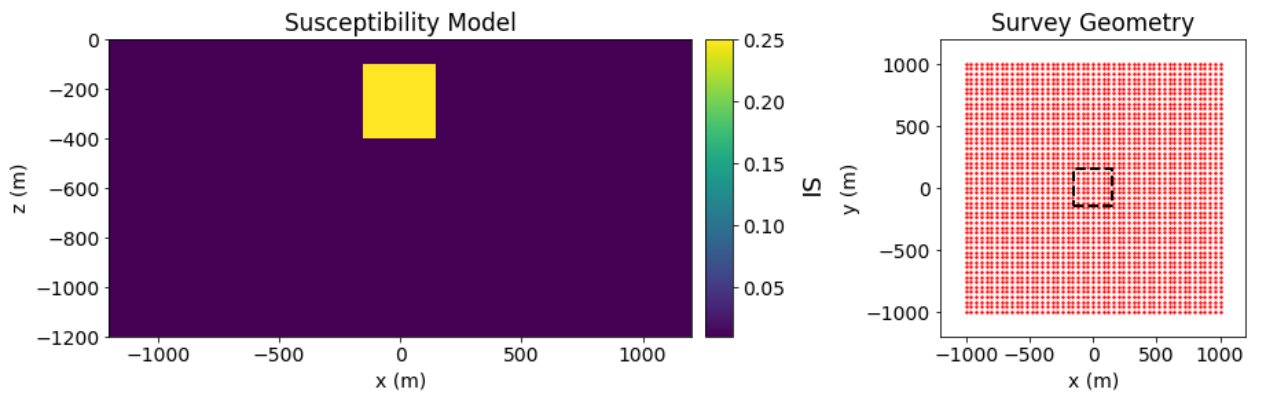
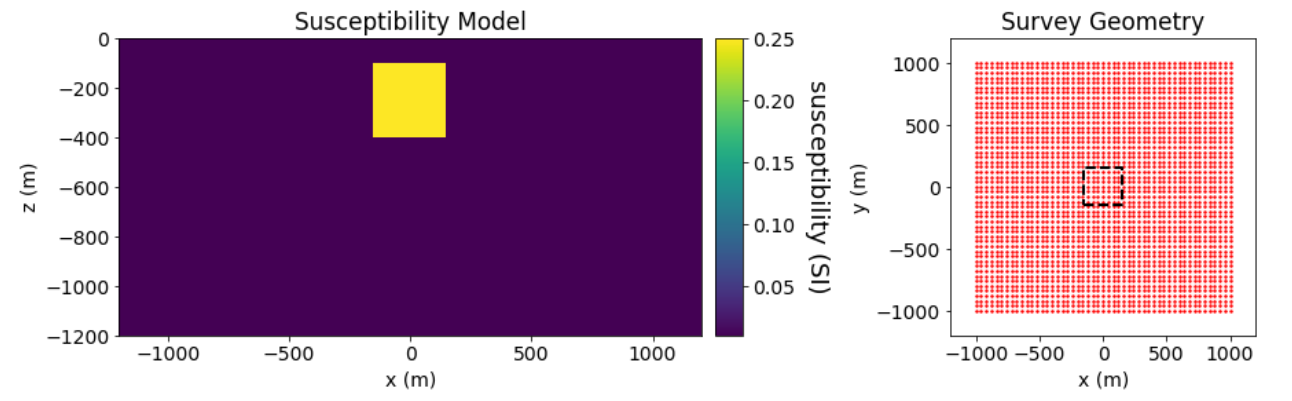
lindsey suggestions

diff --git a/content/comprehensive_workflow/magnetics/1_basic_anomalies.rst b/content/comprehensive_workflow/magnetics/1_basic_anomalies.rst
@@ -48,13 +48,19 @@ of 100 m and a horizontal spacing of 40 m is used.
     :align: center
     :width: 700
 
+    Susceptibility model in units SI (left). Observation locations and horizontal extent of target (right).
+
 
 Anomalies for Different Inclination Angles
 ^^^^^^^^^^^^^^^^^^^^^^^^^^^^^^^^^^^^^^^^^^
 
-As shown below, different inclination angles for the Earth's inducing field produce different
-TMI anomalies. The declination was fixed at 0 degrees and the intensity was fixed at 55,000 nT.
-From the figures below, we see that:
+The GIF below demonstrates that different inclination angles for the Earth's inducing field produce different
+TMI anomalies. For this example, the declination was fixed at 0 degrees and the intensity was fixed at 55,000 nT.
+On the leftmore figure, we see the shape of the TMI for the current inducing field orientation. And on the rightmost figure,
+we see the TMI anomaly from South to North; the bold black line indicates the anomaly for the current inducing field orientation,
+the dashes gray lines denote the anomalies for all other orientations.
+
+From the GIF, we see that:
 
     - the peak anomaly amplitude isn't necessarily located directly over the target. This is only true for near-vertical inducing fields (high latitudes)
     - despite removing the IGRF (background field), the anomaly does not go to 0 away from the target. This is because the host rock contributes to the anomaly; i.e. we have not removed regional effects.
@@ -100,6 +106,8 @@ When examining TMI anomaly data to infer the presence of remanent magnetization,
     - Does the TMI anomaly produced by this structure line up with the declination angle of the Earth's field?
     - Plot the TMI profile over the target along the direction of the Earth's declination angle. Does this plot have the general shape you would expect if the magnetization were purely induced?
 
+Please note that in practice, it can be very difficult to infer the presence of remanent magnetization directly by examining observed TMI data; especially in complex geological environments. Remanent magnetization is commonly identified by performing a :ref:`reduction to pole <comprehensive_workflow_magnetics_1_rtp>` or by examining the output of an inversion that assumes purely induced magnetization.
+
 
 .. figure:: images/anomalies_remanence.png
     :align: center
@@ -124,6 +132,8 @@ We then use geophysical inversion to recover a susceptibility model that fits ou
 With the equivalent source model, we can predict the data at different locations and for different inducing field orientations.
 
 
+.. _comprehensive_workflow_magnetics_1_rtp:
+
 Reduction to Pole
 ^^^^^^^^^^^^^^^^^
 
@@ -144,18 +154,19 @@ For TMI magnetic data collected over a set of UXOs at low latitude, the results 
 Upward Continuation
 ^^^^^^^^^^^^^^^^^^^
 
-Field collected data (especially at the surface) may have high spatial frequency signals or noise that are not produced by targets of interest; making interpretation difficult. Furthermore, finer mesh cells are required for geophysical inversion to accurately characterize
-these higher frequency signals. Upward continuation is a method for removing erroneous high frequency signals from the data by computing the
+Field collected data (especially at the surface) may have short wavelength (high spatial frequency) signals or noise that are not produced by targets of interest; making interpretation difficult. Furthermore, finer mesh cells are required for geophysical inversion to accurately characterize
+these higher frequency signals. Upward continuation is a method for removing erroneous short wavelength signals from the data by computing the
 data as if it were collected at a higher elevation.
 
 Equivalent source models can be used to upward continue field collected data. The steps are as follows:
 
-    1) Estimate the very long period signal (regional or larger scale) by examining the background, then subtract it from the data. Generally a DC shift works. 
-    2) Invert the shifted data to obtain an equivalent sources model
-    3) Use the equivalent source model to predict the data at a higher elevation (using the same inducing field)
-    4) Add the very long period signal (or DC shift) back to the data.
+    1) Estimate the background signal; i.e. the very long wavelength signals attributed to regional or larger scale structures that cannot be fully captured in the observed data. The background signal is generally estimated by a constant value or by fitting the background TMI data with a low order polynomial.
+    2) Subtract the background signal from the observed data.
+    3) Invert the background removed data to obtain an equivalent source model
+    4) Use the equivalent source model to predict the data at a higher elevation (using the same inducing field)
+    5) (Optional) Add the background signal back to the data. This is only required independently collected datasets (e.g. local and regional) must be levelled.
 
-For data collect at a height of 1 m, we demonstrate upward continuation for a block within a halfspace that also contains an unknown broad regional structure. The data map indicates this regional feature produces a roughly 1000 nT anomaly within our survey area. This is subtracted from the data before upward continuing, then re-added as a final step. For a profile along the Northing direction, we plot the true TMI data (lines) that would be measured at different heights as well as data that were upward continued (dots).
+For data collect at a height of 1 m, we demonstrate upward continuation for a block within a halfspace that also contains an unknown broad regional structure. The data map indicates this regional feature produces a roughly 1000 nT anomaly within our survey area. 1000 nT is subtracted from the data before upward continuing, then re-added as a final step. For a profile along the Northing direction, we plot the true TMI data (lines) that would be measured at different heights as well as data that were upward continued (dots).
 
 
 .. figure:: images/anomalies_upward_continuation_shift.png
@@ -163,10 +174,10 @@ For data collect at a height of 1 m, we demonstrate upward continuation for a bl
     :width: 700
 
 
-**Why the shift is crucial:**
+**Why the removal of the background signal is crucial:**
 
-    - The equivalent source model tends to place larger amplitude structures in the padding cells if a DC shift is not applied to the data. The effect of these structures increases the more the data are upward continued.
-    - The signal produced by a large deep regional structure and a thin horizontal layer do not decay identically as a function of elevation. If one does not shift the data prior to upward continuing, the amplitude of the upward continued regional signal will be underestimated (see below.) 
+    - The equivalent source model tends to place larger amplitude structures in the padding cells if the background signal is not first removed from the data. The effect of these structures increases the more the data are upward continued.
+    - The signal produced by a large deep regional structure and a thin horizontal layer do not decay identically as a function of elevation. If one does not remove the background signal prior to upward continuing, the amplitude of the upward continued regional signal will be underestimated (see below.) 
 
 
 

diff --git a/content/comprehensive_workflow/magnetics/3_equivalent_source.rst b/content/comprehensive_workflow/magnetics/3_equivalent_source.rst
@@ -17,24 +17,24 @@ In magnetics, equivalent source models are used to:
 
 .. _comprehensive_workflow_magnetics_3_detrend:
 
-Very Long Period Removal
-------------------------
+Background Signal Removal
+-------------------------
 
-As discussed in the :ref:`understanding anomalies <comprehensive_workflow_magnetics_1_upcont>` section, equivalent source models are not able to accurately characterize very long period (VLP) signals. To recover an equivalent source model that accurately characterizes local-scale anomalies, we must first remove the very-long period signal from the local TMI anomaly data. In the case of upward continuation, this signal can be added back afterwards so long as the inducing field remains roughly the same. We begin by:
+As discussed in the :ref:`understanding anomalies <comprehensive_workflow_magnetics_1_upcont>` section, equivalent source models are not able to accurately characterize very long wavelength signals (i.e. the background signal). To recover an equivalent source model that accurately characterizes local-scale anomalies, we must first remove the background signal from the local TMI anomaly data. In the case of upward continuation, this signal can be added back afterwards so long as the inducing field remains roughly the same. We begin by:
 
     - :ref:`plotting the data with VTK <viewData>`
 
-From here, there are several approaches you can take to determine the VLP signal from the TMI anomaly data column:
+From here, there are several approaches you can take to determine the background signal from the TMI anomaly data column:
 
     - **Option 1:** Examine the values away from any obvious anomalies on the standard data map. *Pro tip: Click the 'Plot Contours' tab. Set background colour to black and axes and labels to white. This will allow you to hover the cursor over data points and see the values in the bottom-left corner of the data map*
     - **Option 2:** Click the 'Profiler' tab. Here you can plot the anomaly values along a user-defined path
     - **Option 3:** fit a polynomial to a set of selected points. A detailed description of this can be found in the :ref:`polynomial detrending section <comprehensive_workflow_magnetics_5_approach>` of the tutorial.
 
 
-Once you have determine the very long period contribution, you subtract it from the original TMI anomaly data and define a new column (*B_anomaly_shifted*) using the :ref:`column calculator <objectCalculator>`.
+Once you have determine the background contribution, subtract it from the original TMI anomaly data and define a new column (*B_anomaly_shifted*) using the :ref:`column calculator <objectCalculator>`.
 
 
-**For the local tutorial data**, we felt a constant value of -375 nT adequately characterized the very long period signal. Therefore 375 nT were added to the original data column to create a column we call *B_anomaly_shifted*. These 'shifted' data are inverted to recover the equivalent source model.
+**For the local tutorial data**, we felt a constant value of -375 nT adequately characterized the background signal. Therefore 375 nT were added to the original data column to create a column we call *B_anomaly_shifted*. These 'shifted' data are inverted to recover the equivalent source model.
 
 
 .. figure:: images/dc_shift_local.png

diff --git a/content/comprehensive_workflow/magnetics/5_detrending.rst b/content/comprehensive_workflow/magnetics/5_detrending.rst
@@ -5,7 +5,7 @@
 Polynomial Detrending and Levelling
 ===================================
 
-**Polynomial detrending** is used to remove longer period signals from the data in order to more accurately characterize local magnetic anomalies; see the image below. Failure to remove longer period signals from magnetic data prior to inversion can result in artifacts and structures which mischaracterize local anomalies.
+**Polynomial detrending** is used to remove the background signal (i.e. very long wavelength signals) from the data in order to more accurately characterize local magnetic anomalies; see the image below. Failure to remove the background signal from magnetic data prior to inversion can result in artifacts and structures which mischaracterize local anomalies.
 
 .. figure:: https://gpg.geosci.xyz/_images/regional.gif
     :align: center
@@ -16,7 +16,7 @@ Polynomial Detrending and Levelling
 Depending on the data you have available, there are two cases:
 
     - **Case 1:** You only have local data (no regional data). In this case, polynomial detrending is applied directly to the local data prior to inversion. Here, we assume that contributions from regional and/or nearby structures can be approximated by a low-order polynomial and removed.
-    - **Case 2:** You have both local and regional scale data. Polynomial detrending is applied to the regional data only. Levelling between local and region datasets is applied if needed. And the detrended regional data is used later to remove regional trends from the local dataset prior to inversion.
+    - **Case 2:** You have both local and regional scale data. Polynomial detrending is applied to the regional data only. Levelling between local and region datasets is applied if needed. And the detrended regional data is used later to remove regional trends (the background signal) from the local dataset prior to inversion.
 
 
 
@@ -76,7 +76,7 @@ For the regional magnetic data, a 1st order polynomial was used to fit the set o
 Local Tutorial Data
 ^^^^^^^^^^^^^^^^^^^
 
-Consider the local TMI anomaly data that were upward continued to 100 m and then unshifted; whose column we call *B_anomaly_unshifted*. For this exercise we are interested in comparing final inversion results when regional data are available, and when they are not. To accomplish this we:
+Consider the local TMI anomaly data that were upward continued to 100 m and then unshifted (background signal added back); whose column we call *B_anomaly_unshifted*. For this exercise we are interested in comparing final inversion results when regional data are available, and when they are not. To accomplish this we:
 
     - used a 1st order polynomial to fit the background, then subtracted the polynomial data column to obtain a data column we are calling *B_anomaly_detrended*. This data column will be inverted to recover a local susceptibility model in the case where regional data are not available.
     - applied a levelling constant of +380 nT to all upward continued and unshifted TMI anomaly data (i.e. *B_anomaly_unshifted*) to produce a column we call *B_anomaly_levelled*. We will remove regional trends from this data with the help of regional data prior to inverting.

diff --git a/content/comprehensive_workflow/magnetics/4_upward_continuation.rst b/content/comprehensive_workflow/magnetics/4_upward_continuation.rst
@@ -18,7 +18,13 @@ Here, we show how equivalent source models can be used to compute the expected T
 Gridding (Optional)
 -------------------
 
-Survey lines are not perfectly straight and station spacings not necessarily uniform. If desired, the user can upward continue or perform the reduction to pole such that the result is defined on a set of uniformly gridded points. One thing to bear in mind is that you **cannot** use this gridding technique to interpolate to a finer horizontal spacing. The highest spatial frequency contained in the data are limited by the station and line spacing. So when creating the set of gridded points, the same line spacing and station spacing should be used. To create a gridded survey object for upward continuation or reduction to pole:
+Survey lines are not perfectly straight and station spacings not necessarily uniform. If desired, the user can upward continue or perform the reduction to pole such that the result is defined on a set of uniformly gridded points. Some things to keep in mind are:
+
+    - you **cannot** use this gridding technique to interpolate to a finer horizontal spacing. The smallest wavelength signal contained in the data is limited by the station and line spacing of the survey. So when creating the set of gridded points, the same line spacing and station spacing must be used.
+    - you **cannot** use this gridding technique to 'fill in' regions where you do not have data coverage.
+    - in general, we do not invert gridded data, unless they have been sufficiently upward continued. When in doubt, preserve the original horizontal locations when upward continuing.
+
+To create a gridded survey object for upward continuation or reduction to pole:
 
     - Use the :ref:`create magnetic survey <createSurveySimple>` utility to define a gridded survey at the desired height above the surface topography
     - Use :ref:`assign the field parameters <objectEditFieldParam>` to define the desired inducing field (e.g. vertical for reduction to pole)

diff --git a/content/comprehensive_workflow/magnetics/11_regional_removal.rst b/content/comprehensive_workflow/magnetics/11_regional_removal.rst
@@ -109,7 +109,7 @@ Here, the reference model interpolated from our regional model is set as both th
 
 **Alpha parameters:**
 
-We want to constrain the local inversion with the reference model. As a result, the value for :math:`\alpha_s` must be significant; i.e. not the smoothest model. For a minimum cell size of 20 m, :math:`alpha_s = 1/20^2 = 0.0025` would place equal emphasis on the smallness and smoothness terms. As discussed in :ref:`comparing local and regional inversion results <comprehensive_workflow_magnetics_10_compare_L2>`, the regional data do not contain some of the higher spatial frequencies contained in the local survey data. And as a result, the regional inversion produces broader, smoother and lower amplitude structures. Since our confidence in the structures obtained from the regional inversion is not overly high, we chose to set :math:`\alpha_s = 0.0001`; thus constraining the inversion with the reference model, but only moderately.
+We want to constrain the local inversion with the reference model. As a result, the value for :math:`\alpha_s` must be significant; i.e. not the smoothest model. For a minimum cell size of 20 m, :math:`\alpha_s = 1/20^2 = 0.0025` would place equal emphasis on the smallness and smoothness terms. As discussed in :ref:`comparing local and regional inversion results <comprehensive_workflow_magnetics_10_compare_L2>`, the regional data do not contain some of the higher spatial frequencies contained in the local survey data. And as a result, the regional inversion produces broader, smoother and lower amplitude structures. Since our confidence in the structures obtained from the regional inversion is not overly high, we chose to set :math:`\alpha_s = 0.0001`; thus constraining the inversion with the reference model, but only moderately.
 
 
 **Role of reference model:**

diff --git a/content/comprehensive_workflow/magnetics/index.rst b/content/comprehensive_workflow/magnetics/index.rst
@@ -13,7 +13,7 @@ Here, we present a general workflow for loading, interpreting, processing and in
     - `Download the tutorial data <https://github.com/ubcgif/GIFtoolsCookbook/raw/master/assets/comprehensive_tutorial_mt.zip>`_
 
 
-We would like to thank `Glencore <https://www.glencore.com/>`__ for providing the local survey data used to create this comprehensive workflow. The regional-scale data were queried from the `Natural Resources Canada Geoscience Data Repository for Geophysical Data <http://gdr.agg.nrcan.gc.ca/gdrdap/dap/search-eng.php>`__ .
+We would like to thank `Glencore <https://www.glencore.com/>`__ , and especially Daryl Ball, for providing the local survey data used to create this comprehensive workflow. The regional-scale data were queried from the `Natural Resources Canada Geoscience Data Repository for Geophysical Data <http://gdr.agg.nrcan.gc.ca/gdrdap/dap/search-eng.php>`__ .
 
 
 .. figure:: images/title_page.png

diff --git a/content/comprehensive_workflow/magnetics/8_mesh_design.rst b/content/comprehensive_workflow/magnetics/8_mesh_design.rst
@@ -29,7 +29,7 @@ To create a tensor mesh based on survey geometry:
     - **Cell size:** set the cell size for the core mesh cells.
     - **Horizontal Extent:** under 'Choose Object', select the magnetic data object then click 'calculate limits'. This defines your core mesh region
     - **Vertical Extent:** Depth of your core mesh region under surface topography
-    - **Padding Parameters:** Do not pad in the vertical direction. These cells are not used when modeling potential fields and would be set to inactive
+    - **Padding Parameters:** Do not pad in the upward direction, as air cells are not used when modeling potential fields
 
 
 Here are some rules of thumb for generating tensor meshes for magnetic inversion:
